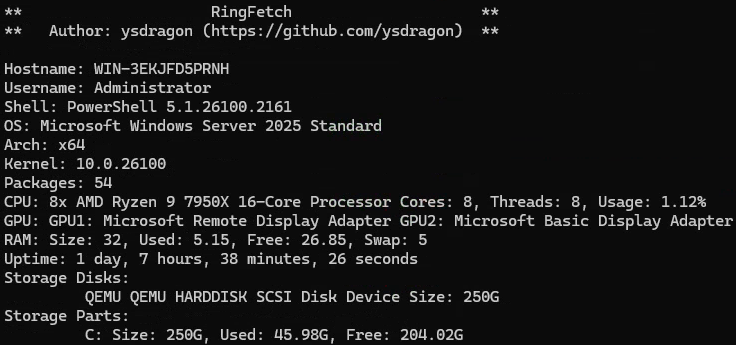
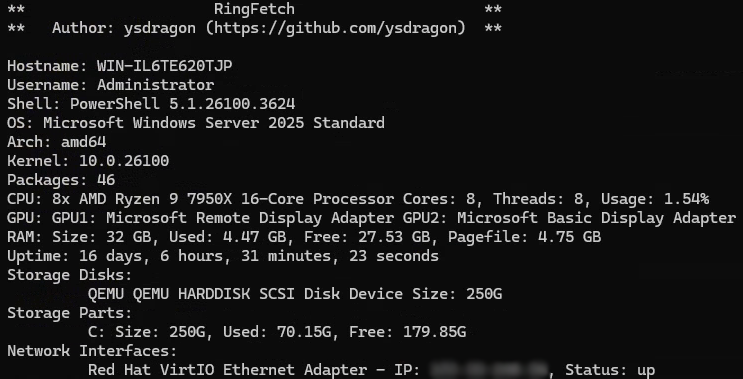
Update RingFetch screenshots

diff --git a/README.md b/README.md
@@ -80,10 +80,10 @@ For detailed API documentation, please refer to the [SysInfo Package Documentati
 ## Example
 Check out ***[RingFetch](https://github.com/ysdragon/SysInfo/tree/main/examples)***, a complete system information display tool built with SysInfo.
 
-|*RingFetch on a Linux VM*                                                                                   | *RingFetch on a Windows VM*                                                                           |
-|-----------------------------------------------------------------------------------|----------------------------------------------------------------------------|
-|  ![](examples/img//ringfetch_linux.png)                                      |  ![](examples/img/ringfetch_win.png)                               |
-                                                      
+|*RingFetch on a Linux VM*                                                                                   | *RingFetch on a Windows VM*                                                                           | *RingFetch on a FreeBSD VM*                                                                           |
+|-----------------------------------------------------------------------------------|----------------------------------------------------------------------------|----------------------------------------------------------------------------|
+|  ![](examples/img//ringfetch_linux.png)                                      |  ![](examples/img/ringfetch_win.png)                               |  ![](examples/img/ringfetch_freebsd.png)                               |
+                                      
 
 ## Supported Operating Systems
 ### Fully Tested

diff --git a/examples/README.md b/examples/README.md
@@ -1,3 +1,4 @@
-|*RingFetch on a Linux VM*                                                                                   | *RingFetch on a Windows VM*                                                                           |
-|-----------------------------------------------------------------------------------|----------------------------------------------------------------------------|
-|  ![](img//ringfetch_linux.png)                                      |  ![](img/ringfetch_win.png)                               |
+|*RingFetch on a Linux VM*                                                                                   | *RingFetch on a Windows VM*                                                                           | *RingFetch on a FreeBSD VM*                                                                           |
+|-----------------------------------------------------------------------------------|----------------------------------------------------------------------------|----------------------------------------------------------------------------|
+|  ![](img//ringfetch_linux.png)                                      |  ![](img/ringfetch_win.png)                               |  ![](img/ringfetch_freebsd.png)                               |
+
